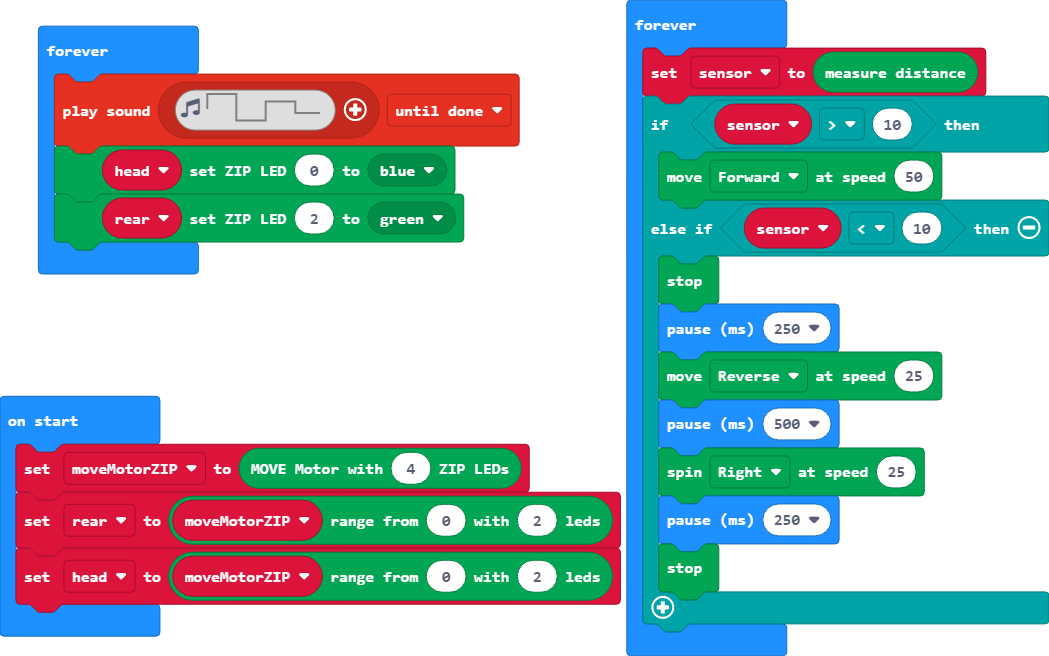
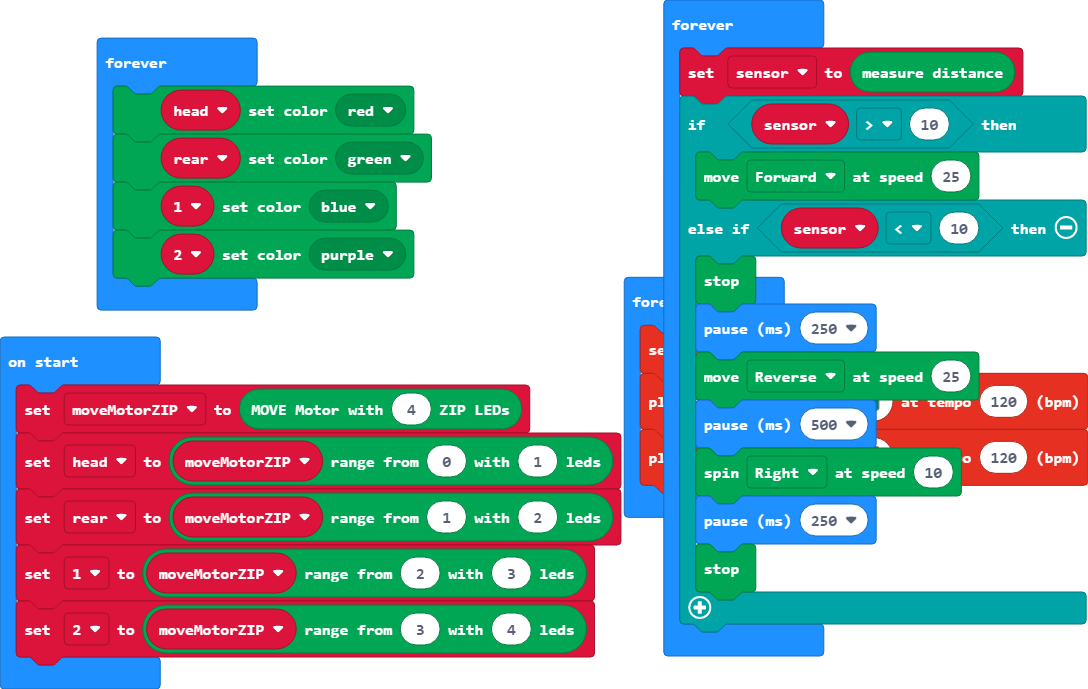
Update main.blocks, main.ts

diff --git a/main.ts b/main.ts
@@ -1,23 +1,31 @@
 let sensor = 0
 let moveMotorZIP = Kitronik_Move_Motor.createMoveMotorZIPLED(4)
-let rear = moveMotorZIP.range(0, 2)
-let head = moveMotorZIP.range(0, 2)
-basic.forever(function () {
-    music.playSoundEffect(music.createSoundEffect(WaveShape.Square, 200, 1, 255, 0, 100, SoundExpressionEffect.None, InterpolationCurve.Curve), SoundExpressionPlayMode.UntilDone)
-    head.setZipLedColor(0, Kitronik_Move_Motor.colors(Kitronik_Move_Motor.ZipLedColors.Blue))
-    rear.setZipLedColor(2, Kitronik_Move_Motor.colors(Kitronik_Move_Motor.ZipLedColors.Green))
-})
+let head = moveMotorZIP.range(0, 1)
+let rear = moveMotorZIP.range(1, 2)
+let _1 = moveMotorZIP.range(2, 3)
+let _2 = moveMotorZIP.range(3, 4)
 basic.forever(function () {
     sensor = Kitronik_Move_Motor.measure()
     if (sensor > 10) {
-        Kitronik_Move_Motor.move(Kitronik_Move_Motor.DriveDirections.Forward, 50)
+        Kitronik_Move_Motor.move(Kitronik_Move_Motor.DriveDirections.Forward, 25)
     } else if (sensor < 10) {
         Kitronik_Move_Motor.stop()
         basic.pause(250)
         Kitronik_Move_Motor.move(Kitronik_Move_Motor.DriveDirections.Reverse, 25)
         basic.pause(500)
-        Kitronik_Move_Motor.spin(Kitronik_Move_Motor.SpinDirections.Right, 25)
+        Kitronik_Move_Motor.spin(Kitronik_Move_Motor.SpinDirections.Right, 10)
         basic.pause(250)
         Kitronik_Move_Motor.stop()
     }
+})
+basic.forever(function () {
+    head.setColor(Kitronik_Move_Motor.colors(Kitronik_Move_Motor.ZipLedColors.Red))
+    rear.setColor(Kitronik_Move_Motor.colors(Kitronik_Move_Motor.ZipLedColors.Green))
+    _1.setColor(Kitronik_Move_Motor.colors(Kitronik_Move_Motor.ZipLedColors.Blue))
+    _2.setColor(Kitronik_Move_Motor.colors(Kitronik_Move_Motor.ZipLedColors.Purple))
+})
+basic.forever(function () {
+    music.setVolume(255)
+    music.playMelody("E B C5 A B G A F ", 120)
+    music.playMelody("A F E F D G E F ", 120)
 })
